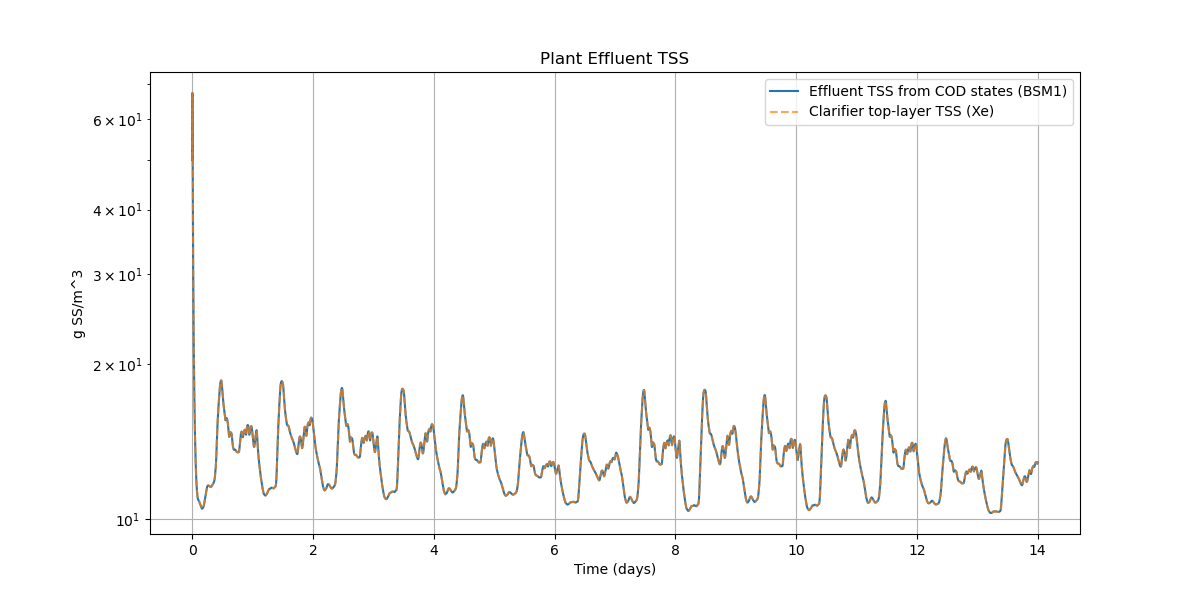
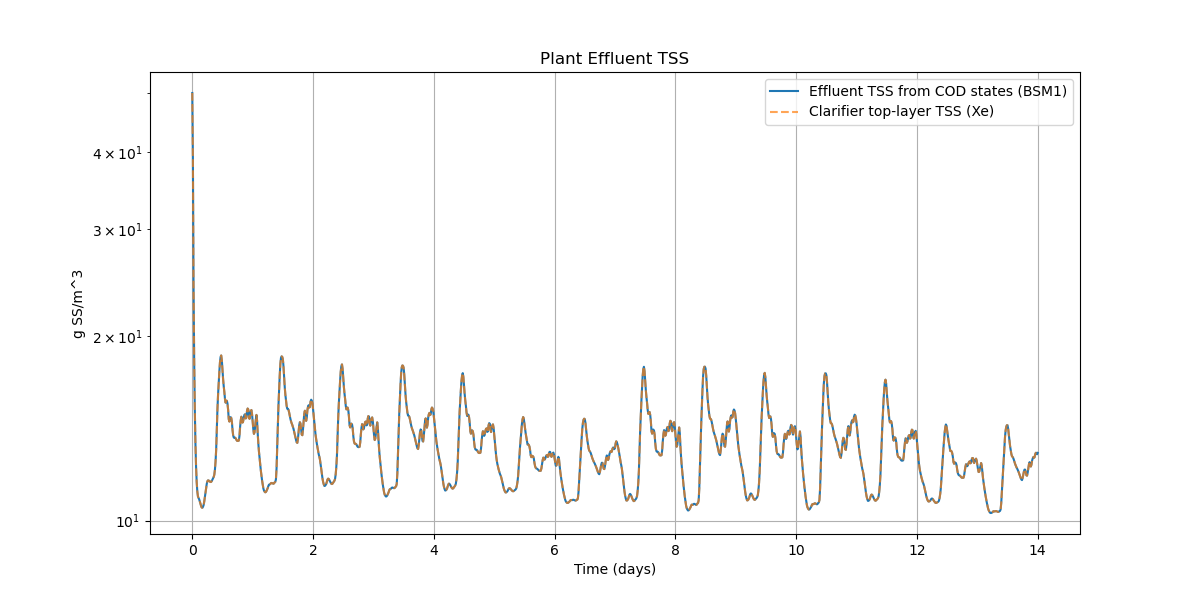
BSM1 validation withut intial 100days

diff --git a/run_simulation.py b/run_simulation.py
@@ -9,6 +9,7 @@ import os
 os.makedirs('results', exist_ok=True)
 
 from bsm1_simulation import bsm1_plant_model, map_particulates_by_tss, particulate_cod_idx, soluble_idx
+from bsm1_validation import compute_bsm1_kpis
 from ASM1_Processes import calculate_process_rates
 from scipy.integrate import solve_ivp
 
@@ -203,42 +204,39 @@ if __name__ == '__main__':
     ])
     print("Step 2: Initial conditions defined for 145 states.")
 
-    # --- 3. Define Simulation Time ---
-    # Simulate for 14 days, with output every 0.1 days.
-    dt = 0.00001  # explicit euler. dtsettle ≲ 0.4/250=0.0016d. 0.0001 was found to show time independene 
-    # dt = 1.0/96.0  # implicit. 15 min in days. Similar to bsm1 output
-    t_span = np.arange(0.0, 14.0 + dt, dt) 
-    # t_span = np.arange(0, 1, 10)
-
-    # --- 4. Run the Simulation ---
+    # --- 3. Run the Simulation ---
     print("Starting plant-wide simulation... (this may take a moment)")
 
     def rhs(t, y):
         return bsm1_plant_model(y, t, get_influent_data, stoich_params, Kin_params, clarifier_params, settling_params)
 
+    dt = 1.0/96.0  # implicit. 15 min in days. Similar to bsm1 output
+    t_span = np.arange(0.0, 14.0 + dt, dt) 
     # --- implicit ---   
-    # sol = solve_ivp(
-    #     rhs,
-    #     t_span=(float(t_span[0]), float(t_span[-1])),
-    #     y0=y0,
-    #     t_eval=t_span,
-    #     method='BDF',              # or 'LSODA'
-    #     rtol=1e-5,
-    #     atol=1e-7,
-    #     max_step=dt              # 15 min KPIs. 
-    # )
-    # if not sol.success:
-    #     print("Integrator reported:", sol.message)
-    # solution = sol.y.T
+    sol = solve_ivp(
+        rhs,
+        t_span=(float(t_span[0]), float(t_span[-1])),
+        y0=y0,
+        t_eval=t_span,
+        method='BDF',              # or 'LSODA'
+        rtol=1e-5,
+        atol=1e-7,
+        max_step=dt              # 15 min KPIs. 
+    )
+    if not sol.success:
+        print("Integrator reported:", sol.message)
+    solution = sol.y.T
 
     # --- Forward (Explicit) Euler on the fixed grid t_span ---
-    solution = np.empty((t_span.size, y0.size), dtype=float)
-    solution[0, :] = y0
-    for k in range(t_span.size - 1):
-        t  = float(t_span[k])
-        dt = float(t_span[k+1] - t_span[k])
-        dydt = rhs(t, solution[k, :])
-        solution[k+1, :] = solution[k, :] + dt * dydt
+    # dt = 0.00001  # explicit euler. dtsettle ≲ 0.4/250=0.0016d. 0.0001 was found to show time independene 
+    # t_span = np.arange(0.0, 14.0 + dt, dt) 
+    # solution = np.empty((t_span.size, y0.size), dtype=float)
+    # solution[0, :] = y0
+    # for k in range(t_span.size - 1):
+    #     t  = float(t_span[k])
+    #     dt = float(t_span[k+1] - t_span[k])
+    #     dydt = rhs(t, solution[k, :])
+    #     solution[k+1, :] = solution[k, :] + dt * dydt
 
 
     results_reactors  = solution[:, 0:65].reshape(len(t_span), 5, 13)
@@ -252,8 +250,6 @@ if __name__ == '__main__':
     ras_ts      = np.empty_like(effluent_ts)
     Xe_ts       = np.empty(len(t_span))
     Xu_ts       = np.empty(len(t_span))
-    Qe_ts       = np.empty(len(t_span))
-
     TSS_eff_from_cod = np.empty(len(t_span))
 
     for i, tt in enumerate(t_span):
@@ -273,13 +269,13 @@ if __name__ == '__main__':
 
         # effluent flow
         Q0_t, _    = get_influent_data(tt)
-        Qe_ts[i]   = float(Q0_t) - float(clarifier_params['Q_w'])
-
-        # After you’ve built Qe_ts and effluent_ts (shape: T x 13)
-        # w = Qe_ts * dt
-        # avg = (w * effluent_ts[:, j]).sum() / w.sum()
 
     os.makedirs('results/across_units', exist_ok=True)
+
+    kpis = compute_bsm1_kpis(t_span, effluent_ts, get_influent_data, clarifier_params, stoich_params)
+    print("[BSM1 7–14 d | 15‑min rectangular, flow‑weighted]")
+    for k, v in kpis.items():
+        print(f"{k}: {v:.3f}")
 
     component_names = ['S_I','S_S','X_I','X_S','X_H','X_A','X_P','S_O','S_NO','S_NH','S_ND','X_ND','S_ALK']
 
@@ -295,42 +291,43 @@ if __name__ == '__main__':
         for j in soluble_idx
     }
 
-    for comp_idx, comp_name in enumerate(component_names):
-        fig, axes = plt.subplots(8, 1, figsize=(12, 18), sharex=True)
+    # across_units plotting loop
+    # for comp_idx, comp_name in enumerate(component_names):
+    #     fig, axes = plt.subplots(8, 1, figsize=(12, 18), sharex=True)
 
-        # 1) Influent
-        axes[0].plot(t_span, influent_concs_ts[:, comp_idx])
-        axes[0].set_title(f'Influent → {comp_name}')
+    #     # 1) Influent
+    #     axes[0].plot(t_span, influent_concs_ts[:, comp_idx])
+    #     axes[0].set_title(f'Influent → {comp_name}')
 
-        # 2–6) After Tanks 1–5 (CSTR: tank conc. = tank effluent)
-        for tank in range(5):
-            axes[tank + 1].plot(t_span, results_reactors[:, tank, comp_idx])
-            axes[tank + 1].set_title(f'After Tank {tank + 1} → {comp_name}')
+    #     # 2–6) After Tanks 1–5 (CSTR: tank conc. = tank effluent)
+    #     for tank in range(5):
+    #         axes[tank + 1].plot(t_span, results_reactors[:, tank, comp_idx])
+    #         axes[tank + 1].set_title(f'After Tank {tank + 1} → {comp_name}')
 
-        # 7) Clarifier Effluent
-        axes[6].plot(t_span, effluent_ts[:, comp_idx])
-        axes[6].set_title(f'Clarifier Effluent → {comp_name}')
+    #     # 7) Clarifier Effluent
+    #     axes[6].plot(t_span, effluent_ts[:, comp_idx])
+    #     axes[6].set_title(f'Clarifier Effluent → {comp_name}')
 
-        # 8) Clarifier RAS
-        show_ras = (comp_idx in particulate_idx_full) or solubles_go_down_by_comp.get(comp_idx, False)
-        axes[7].set_title(f'Clarifier RAS → {comp_name}')
-        if show_ras:
-            axes[7].plot(t_span, ras_ts[:, comp_idx])
-        else:
-            # If solubles don't go down, avoid plotting a misleading line
-            axes[7].text(0.5, 0.5, 'RAS not plotted (no soluble transport detected)',
-                        ha='center', va='center', transform=axes[7].transAxes)
+    #     # 8) Clarifier RAS
+    #     show_ras = (comp_idx in particulate_idx_full) or solubles_go_down_by_comp.get(comp_idx, False)
+    #     axes[7].set_title(f'Clarifier RAS → {comp_name}')
+    #     if show_ras:
+    #         axes[7].plot(t_span, ras_ts[:, comp_idx])
+    #     else:
+    #         # If solubles don't go down, avoid plotting a misleading line
+    #         axes[7].text(0.5, 0.5, 'RAS not plotted (no soluble transport detected)',
+    #                     ha='center', va='center', transform=axes[7].transAxes)
 
-        # Cosmetics
-        for ax in axes:
-            ax.grid(True)
-            ax.set_ylabel('g/m³')
-        axes[-1].set_xlabel('Time (days)')
+    #     # Cosmetics
+    #     for ax in axes:
+    #         ax.grid(True)
+    #         ax.set_ylabel('g/m³')
+    #     axes[-1].set_xlabel('Time (days)')
 
-        fig.suptitle(f'{comp_name}: Influent → Tanks 1–5 → Effluent → RAS', y=0.995)
-        plt.tight_layout()
-        plt.savefig(f'results/across_units/{comp_name}_across_units.png', dpi=150)
-        plt.close()
+    #     fig.suptitle(f'{comp_name}: Influent → Tanks 1–5 → Effluent → RAS', y=0.995)
+    #     plt.tight_layout()
+    #     plt.savefig(f'results/across_units/{comp_name}_across_units.png', dpi=150)
+    #     plt.close()
 
 
     # Clarifier TSS figure (use Xe, Xu)

diff --git a/bsm1_validation.py b/bsm1_validation.py
@@ -1,0 +1,74 @@
+# bsm1_validation.py File
+import numpy as np
+
+def compute_bsm1_kpis(t_span,
+                      effluent_ts,            # shape (T, 13) from your simulation grid
+                      get_influent_data,      # function(t) -> (Q0, Zin)
+                      clarifier_params,       # provides Q_w
+                      stoich_params,          # provides f_P, i_XB, i_XP
+                      t_start=7.0, t_end=14.0 # evaluation window [7,14) days
+                      ):
+    """
+    Compute the official BSM1 KPIs on the mandated 15-min grid
+    using rectangular (zero-order hold) integration over days 7–14.
+
+    Returns a dict with flow-weighted means and 95th percentiles.
+    """
+
+    # ----- 1) Build the 15-min KPI grid (left endpoints for rectangular/ZOH) -----
+    dt15  = 1.0 / 96.0                           # 15 min in days
+    t_kpi = np.arange(0.0, 14.0, dt15)           # 0, 0.15625, ..., 13.84375
+
+    # ----- 2) Sample effluent flow on the KPI grid: Qe = Q0 - Qw (BSM1) -----
+    # The influent function returns flow at any t; Q_w is constant in BSM1.
+    Q_w    = float(clarifier_params['Q_w'])
+    Qe_kpi = np.array([float(get_influent_data(tt)[0]) for tt in t_kpi]) - Q_w
+
+    # ----- 3) Sample effluent concentrations on the KPI grid (linear to samples, then ZOH for integration) -----
+    # effluent_ts is on your solver grid t_span; we interpolate each of the 13 components to t_kpi.
+    eff_kpi = np.column_stack([np.interp(t_kpi, t_span, effluent_ts[:, j]) for j in range(13)])
+
+    # Column index reminder (ASM1 order)
+    # 0:S_I, 1:S_S, 2:X_I, 3:X_S, 4:X_H, 5:X_A, 6:X_P, 7:S_O, 8:S_NO, 9:S_NH, 10:S_ND, 11:X_ND, 12:S_ALK
+
+    # ----- 4) Derived effluent series per BSM1 definitions -----
+    # TSS_e = 0.75 * sum of particulate COD (X_I, X_S, X_H, X_A, X_P)    [BSM1 Section 2.3.3]
+    # CODt_e = total COD = S_I + S_S + X_I + X_S + X_H + X_A + X_P       [BSM1 Section 6]
+    part_idx = [2, 3, 4, 5, 6]
+    COD_idx  = [0, 1, 2, 3, 4, 5, 6]
+    TSS_e    = 0.75 * eff_kpi[:, part_idx].sum(axis=1)
+    CODt_e   =        eff_kpi[:, COD_idx].sum(axis=1)
+
+    # BOD5_e = 0.25 * (S_S + X_S + (1 - f_P) * (X_H + X_A))              [BSM1 Section 6]
+    f_P      = float(stoich_params['f_P'])
+    BOD5_e   = 0.25 * (eff_kpi[:, 1] + eff_kpi[:, 3] + (1.0 - f_P) * (eff_kpi[:, 4] + eff_kpi[:, 5]))
+
+    # N_kj = S_NH + S_ND + X_ND + i_XB*(X_H+X_A) + i_XP*X_P; N_tot = S_NO + N_kj   [BSM1 Section 6]
+    i_XB     = float(stoich_params['i_XB'])
+    i_XP     = float(stoich_params['i_XP'])
+    Nkj_e    = (eff_kpi[:, 9] + eff_kpi[:, 10] + eff_kpi[:, 11]
+                + i_XB * (eff_kpi[:, 4] + eff_kpi[:, 5]) + i_XP * eff_kpi[:, 6])
+    Ntot_e   = eff_kpi[:, 8] + Nkj_e
+
+    # ----- 5) Select the evaluation window [7, 14) on the KPI grid -----
+    mask = (t_kpi >= t_start) & (t_kpi < t_end)
+    w    = Qe_kpi[mask] * dt15   # rectangular (ZOH) weights = Qe * Δt   [BSM1 Section 4]
+
+    # Helper for flow-weighted average on the window
+    def flow_avg(series_1d):
+        s = series_1d[mask]
+        return float((w * s).sum() / w.sum())
+
+    # ----- 6) Flow-weighted means (BSM1) -----
+    results = {
+        'CODt_avg': flow_avg(CODt_e),
+        'Ntot_avg': flow_avg(Ntot_e),
+        'SNH_avg' : flow_avg(eff_kpi[:, 9]),
+        'TSS_avg' : flow_avg(TSS_e),
+        'BOD5_avg': flow_avg(BOD5_e),
+        # 95th percentiles on 15-min samples (unweighted) over the same window   [BSM1 Section 6]
+        'SNH95'   : float(np.percentile(eff_kpi[mask, 9], 95)),
+        'Ntot95'  : float(np.percentile(Ntot_e[mask],     95)),
+        'TSS95'   : float(np.percentile(TSS_e[mask],      95)),
+    }
+    return results
